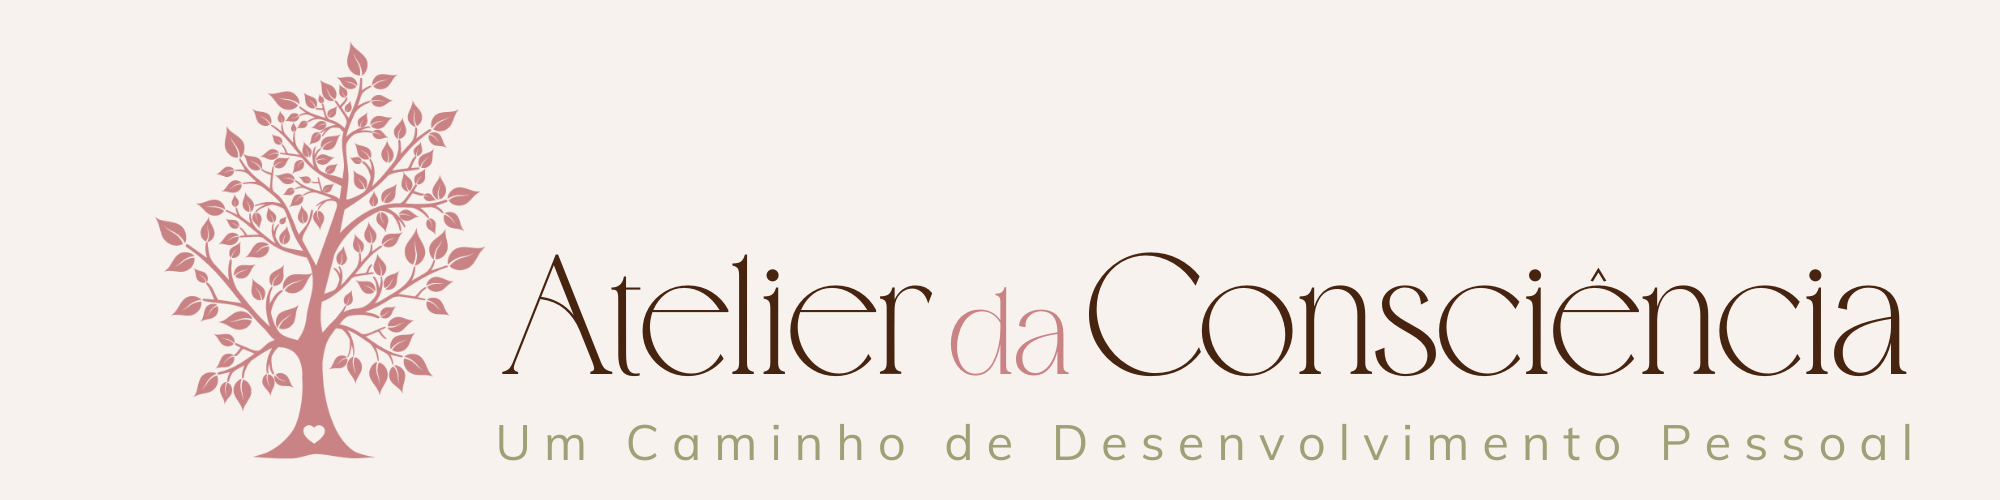
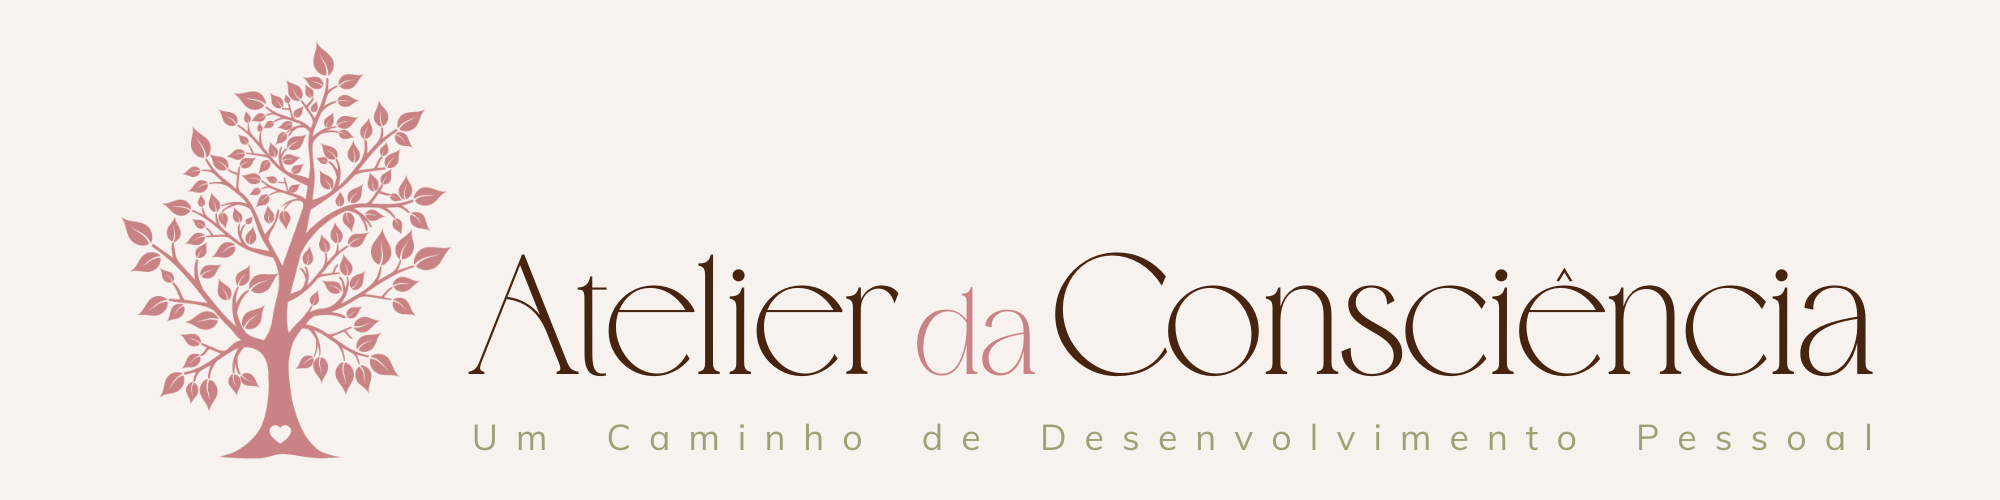
teste

Changed region(s): [[0.062, 0.09, 0.961, 0.93], [0.217, 0.84, 0.961, 0.93]]

diff --git a/ConsultoriaTerapeutica.html b/ConsultoriaTerapeutica.html
@@ -123,7 +123,7 @@
       </div>
         <div class="w3-col m12">
 	  <p class="my-justify t-body indent-1">
-       Construo, contigo, um plano claro, com prioridades bem organizadas e passos concretos ajustados a ti. É através da construção deste plano que se torna claro o que precisa de atenção, cura e estrutura neste momento. Trabalharemos sobre:
+       Construo, contigo, um plano claro com prioridades bem organizadas e passos concretos ajustados a ti. É através da construção deste plano que compreenderemos o que precisa de atenção, cura e estrutura neste momento. Trabalharemos sobre:
       </p>
 		<ul class="ms-3 text-start" style="margin-top: 1rem;"> 
         <li> A tua Semana</li>

diff --git a/css/style.css b/css/style.css
@@ -1470,7 +1470,7 @@ textarea::placeholder {
 }
 .headertext-img{ width: 100%; height: auto; }
 @media (min-width: 768px){
-  .headertext-img{ width: 85%; }
+  .headertext-img{ width: 100%; }
 }
 
 .imageTerapias img{
